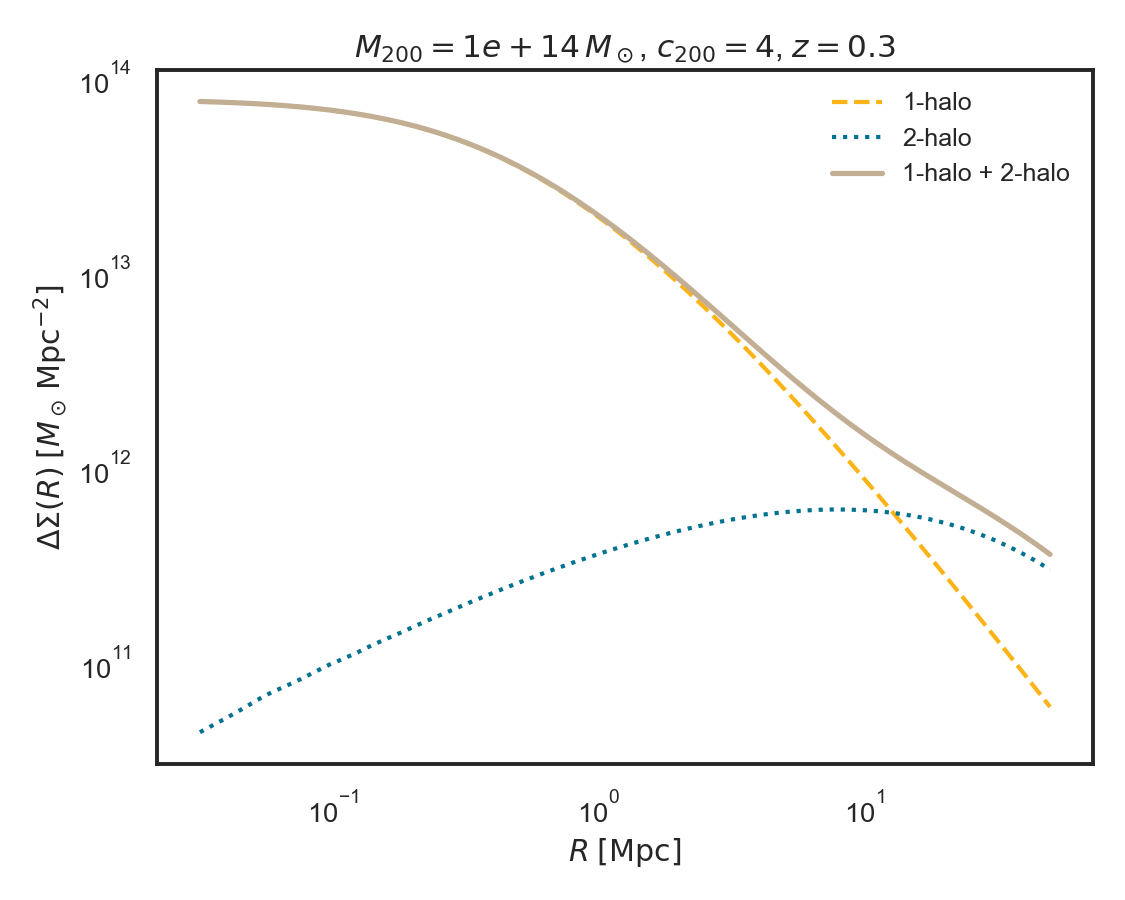
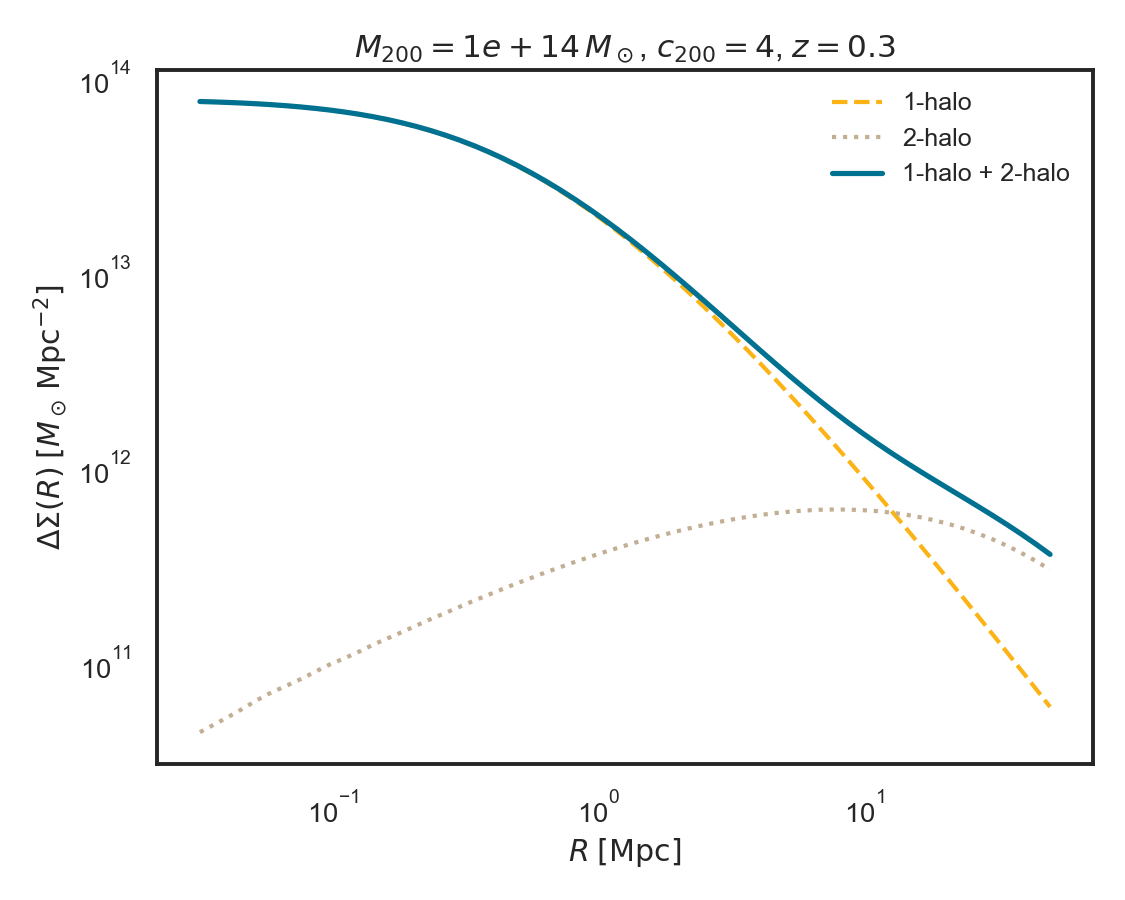
Fix lensing_profile.md colors and drop stale implementation note
Solid total DeltaSigma line now gets the stronger teal hue instead of a
muted tan; the projected_profiles.md Einasto section no longer carries
implementation-history trivia about the removed Catalan series (already
covered in einasto_math.md).

diff --git a/docs/make_halo_figures.py b/docs/make_halo_figures.py
@@ -166,8 +166,8 @@ def fig_lensing_profile():
 
     fig, ax = plt.subplots(figsize=(7.5, 6.0))
     ax.loglog(R, ds_1h, color=C3[0], lw=2.0, ls="--", label="1-halo")
-    ax.loglog(R, ds_2h, color=C3[1], lw=2.0, ls=":", label="2-halo")
-    ax.loglog(R, ds_tot, color=C3[2], lw=2.5, label="1-halo + 2-halo")
+    ax.loglog(R, ds_2h, color=C3[2], lw=2.0, ls=":", label="2-halo")
+    ax.loglog(R, ds_tot, color=C3[1], lw=2.5, label="1-halo + 2-halo")
     ax.set(xlabel=r"$R \; [{\rm Mpc}]$",
            ylabel=r"$\Delta\Sigma(R) \; [M_\odot\,{\rm Mpc}^{-2}]$")
     ax.set_title(rf"$M_{{200}}={m200:.0e}\,M_\odot$, $c_{{200}}={c200:g}$, "

diff --git a/docs/projected_profiles.md b/docs/projected_profiles.md
@@ -113,20 +113,6 @@ all-positive $E_{\nu_k}$ representation only at $z=(R/h)^{1/n}$ far beyond
 any physical radius for $n>3/2$. $n=1$ and $n=1/2$ collapse this to
 genuinely elementary closed forms in modified Bessel functions.
 
-```{note}
-An older, plain Catalan $c_k E_{\nu_k}(x)$ series used to compute
-$\Sigma$/$\Delta\Sigma$ directly for $n>3/2$ — it has been **removed**
-(`_build`, `self._ck`, `self._nu_k`, `_E_nu`, `order_for_tol` are all gone)
-rather than left as dead code: its `DeltaSigma` truncation error was
-$O(K^{-1/2})$ *absolute*, i.e. 30-200% relative, and nothing read it any
-more once the residue series above took over for every $n$ — not
-`sigma`/`deltasigma`, and not `power_spectrum` either, whose own $n>3/2$
-branch is a wholly separate analytic cascade (`clenspy.halo.einasto_series`)
-that never touched it. Only the bare integer `self.order` survives,
-sizing `power_spectrum`'s explicit `small_k`/`large_k` branches' own
-unrelated $A_m^\pm$ series — not its default `"auto"` dispatch.
-```
-
 See {doc}`einasto_math` for the full per-regime dispatch and the small-$R$
 asymptotic used where the native
 series cancels catastrophically.
